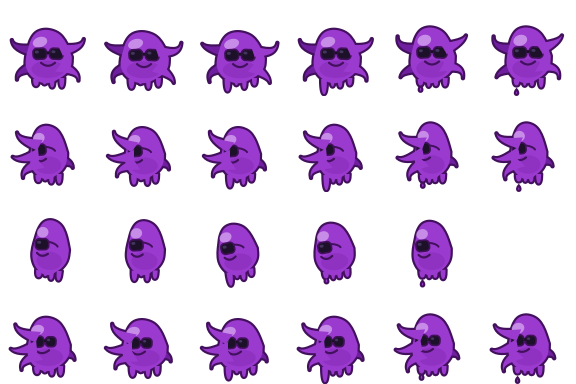
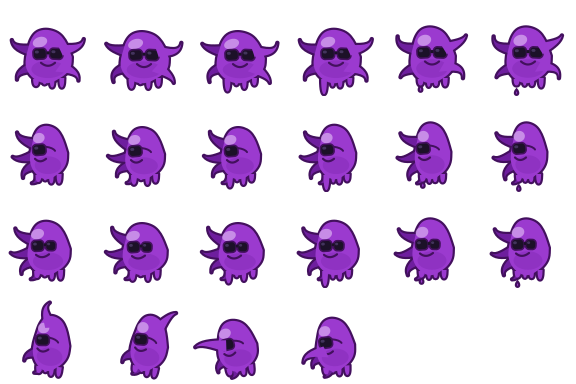
feat(ui): tschobbo wirft klumpen die bei match kleben
Step 2/3 von Tschobbo v2. Neue Assets (sheet ersetzt, blobs neu). Wurf-Queue
mit ~120ms Stagger, Parabel-Flug, landet als stick auf der Quadratposition.
Fallen-Fall kommt in Step 3. Release-Timing-Bug (siehe docs/errors.md) gefixt.

diff --git a/ui/tschobbo.js b/ui/tschobbo.js
@@ -11,8 +11,15 @@ const SCALE = DISPLAY / FRAME;
 const SHEET_W = 576 * SCALE;
 const SHEET_H = 384 * SCALE;
 
-const ROWS = { front: 0, side: 1, push: 2, quarter: 3 };
-const FRAME_COUNTS = { front: 6, side: 6, push: 5, quarter: 6 };
+const ROWS = { front: 0, side: 1, quarter: 2, throw: 3 };
+const FRAME_COUNTS = { front: 6, side: 6, quarter: 6, throw: 4 };
+
+// Klumpen-Sheet (tschobbo-blobs.png): eigenes, kleineres Raster, nativ ohne
+// Skalierung (Anzeigegroesse = Asset-Groesse, siehe Auftrag).
+const BLOB_FRAME = 32;
+const BLOB_SHEET_W = 128, BLOB_SHEET_H = 96;
+const BLOB_ROWS = { fly: 0, stick: 1, glob: 2 };
+const BLOB_FRAME_COUNTS = { fly: 4, stick: 1, glob: 4 };
 
 const IDLE_FRAME_MS = 1000 / 8;
 const DRIFT_WAIT_MIN = 6000, DRIFT_WAIT_MAX = 14000;
@@ -25,6 +32,12 @@ const MARGIN = 32;
 const PARK_TRAVEL_MS = 600; // nicht im Auftrag beziffert — an Entrance/Drift angelehnt
 const HOP_MS = 160;
 const SCRAPE_SILENCE_MS = 5000;
+
+const THROW_FRAME_MS = 1000 / 12; // Auftrag: "Throw-Ticker: 12 fps"
+const THROW_STAGGER_MS = 120; // Auftrag: Wurf-Frequenz bei mehreren Jobs
+const FLY_MS = 450; // nicht im Auftrag beziffert — zuegiger Wurf, an Drift/Park angelehnt
+const FLY_SPINS = 2; // wie oft der Klumpen waehrend des Flugs durch seine 4 Frames rotiert, nicht beziffert
+const ARC = 80; // Auftrag: "Wurfhöhe (ARC): ~80 px"
 
 const STORAGE_KEY = 'tschobbo.enabled';
 
@@ -49,6 +62,16 @@ function spawnSpot() {
 
 function setFrame(body, view, frame) {
   body.style.backgroundPosition = `-${frame * DISPLAY}px -${ROWS[view] * DISPLAY}px`;
+}
+
+function setBlobFrame(el, row, frame) {
+  el.style.backgroundPosition = `-${frame * BLOB_FRAME}px -${BLOB_ROWS[row] * BLOB_FRAME}px`;
+}
+
+function makeBlobEl() {
+  const el = document.createElement('div');
+  el.style.cssText = `position:fixed; width:${BLOB_FRAME}px; height:${BLOB_FRAME}px; background-image:url(/tschobbo-blobs.png); background-repeat:no-repeat; background-size:${BLOB_SHEET_W}px ${BLOB_SHEET_H}px; pointer-events:none; z-index:39;`;
+  return el;
 }
 
 function buildDom() {
@@ -91,6 +114,7 @@ export function initTschobbo() {
   let mode = 'idle';
   let busy = false;
   let silenceTimer = null;
+  let throwQueue = [];
 
   function clearTimers() {
     timers.forEach(clearTimeout);
@@ -170,6 +194,77 @@ export function initTschobbo() {
     }
   }
 
+  // Ein Klumpen fliegt auf einer Parabel (Formel, keine Physik-Engine) von der
+  // Wurfhand zum Ziel und rotiert dabei durch seine 4 fly-Frames. Bleibt am Ziel
+  // hängen (stick) — der Fallen-Fall kommt erst in Step 3.
+  function spawnFly(origin, target) {
+    const el = makeBlobEl();
+    document.body.appendChild(el);
+    const t0 = performance.now();
+    function step(now) {
+      const t = Math.min(1, (now - t0) / FLY_MS);
+      const x = origin.x + (target.x - origin.x) * t;
+      const y = origin.y + (target.y - origin.y) * t - ARC * Math.sin(Math.PI * t);
+      el.style.left = `${x}px`;
+      el.style.top = `${y}px`;
+      const frame = Math.floor(t * BLOB_FRAME_COUNTS.fly * FLY_SPINS) % BLOB_FRAME_COUNTS.fly;
+      setBlobFrame(el, 'fly', frame);
+      if (t < 1) requestAnimationFrame(step);
+      else {
+        setBlobFrame(el, 'stick', 0);
+        el.style.left = `${target.x}px`;
+        el.style.top = `${target.y}px`;
+      }
+    }
+    requestAnimationFrame(step);
+  }
+
+  // Wurf-Animation: Frame 0 ausholen, 1 hochziehen, 2 = Release, 3 nachschwingen
+  // (siehe Auftrag). Keine Arme mehr — Wurfhand ist eine ungefähre Position
+  // relativ zum Körper, nicht im Auftrag exakt beziffert.
+  //
+  // Release hängt an einem eigenen Timeout statt am frameTimer-Intervall: bei
+  // ~120ms Wurf-Abstand (THROW_STAGGER_MS) überholt der nächste Wurf oft noch
+  // vor Frame 2 (~166ms) und würde das Intervall kappen — der Klumpen des
+  // vorigen Wurfs käme nie los. Das Intervall bleibt rein kosmetisch fürs Arm-Flackern.
+  function throwOne(targetEl) {
+    const rect = targetEl.getBoundingClientRect();
+    const target = { x: rect.left, y: rect.top };
+    const origin = { x: posX + DISPLAY * 0.5, y: posY + DISPLAY * 0.4 };
+
+    if (frameTimer) clearInterval(frameTimer);
+    let i = 0;
+    setFrame(body, 'throw', 0);
+    frameTimer = setInterval(() => {
+      i++;
+      if (i >= FRAME_COUNTS.throw) {
+        clearInterval(frameTimer); frameTimer = null;
+        startFrameLoop('side');
+        return;
+      }
+      setFrame(body, 'throw', i);
+    }, THROW_FRAME_MS);
+
+    timers.push(setTimeout(() => spawnFly(origin, target), 2 * THROW_FRAME_MS));
+  }
+
+  // Burst-Regel (anders als v1): kein Ignorieren mehr — jeder Job aus jedem
+  // Event wird gesehen, mit ~120ms Abstand nacheinander geworfen (Auftrag).
+  // Während der Anfahrt (busy) wartet die Queue, statt schon zu werfen.
+  function queueThrows(elements) {
+    const wasEmpty = throwQueue.length === 0;
+    throwQueue.push(...elements);
+    if (wasEmpty) drainThrowQueue();
+  }
+
+  function drainThrowQueue() {
+    if (throwQueue.length === 0) return;
+    if (busy) { timers.push(setTimeout(drainThrowQueue, THROW_STAGGER_MS)); return; }
+    const el = throwQueue.shift();
+    throwOne(el);
+    timers.push(setTimeout(drainThrowQueue, THROW_STAGGER_MS));
+  }
+
   // Seele-Beat 3: Freuden-Hüpfer bei Scrape-Ende, danach zurück zu 'front' über
   // dieselbe Zwischenstufe wie beim Scrape-Start (TURN_STEP_MIN/MAX), dann
   // zurück in den Idle-Zyklus.
@@ -198,19 +293,27 @@ export function initTschobbo() {
     silenceTimer = setTimeout(endScrape, SCRAPE_SILENCE_MS);
   }
 
-  // v2 wirft noch keine Klumpen (Step 2) — reagiert nur auf das erste Event
-  // (Anfahrt an den Rand) und hält den Stille-Timer am Laufen, damit Tschobbo
-  // nach Scrape-Ende wieder in den Idle-Zyklus zurückfindet.
+  // Pro Event: Stille-Timer zurücksetzen, beim allerersten zusätzlich anfahren.
+  // Die Quadrate der zuletzt angehängten Zeile (React braucht einen Frame zum
+  // Rendern, daher rAF — gleiches Muster wie das alte doPush) sind die Wurfziele,
+  // auch für das erste Event ("wir wollen alle Jobs sehen", Auftrag-Burst-Regel).
   function onGridUnit() {
     if (!enabledState) return;
     if (mode === 'idle') {
       clearTimers();
       mode = 'scrape';
+      throwQueue = [];
       resetSilenceTimer();
       parkForScrape();
-      return;
+    } else {
+      resetSilenceTimer();
     }
-    resetSilenceTimer();
+    requestAnimationFrame(() => {
+      const rows = document.querySelectorAll('.loadgrid__row');
+      const row = rows[rows.length - 1];
+      if (!row) return;
+      queueThrows(Array.from(row.querySelectorAll('.loadgrid__sq')));
+    });
   }
 
   window.addEventListener('tschobbo:unit', onGridUnit);

diff --git a/scripts/ui-server.ts b/scripts/ui-server.ts
@@ -101,6 +101,7 @@ let filterRowCounters = { matched: 0, offstack: 0, brutal: 0 };
 // kein Verzeichnis-Traversal möglich.
 const TSCHOBBO_ASSETS = new Map<string, { path: string; type: string }>([
   ['/tschobbo-sheet.png', { path: join(import.meta.dirname, '..', 'ui', 'tschobbo-sheet.png'), type: 'image/png' }],
+  ['/tschobbo-blobs.png', { path: join(import.meta.dirname, '..', 'ui', 'tschobbo-blobs.png'), type: 'image/png' }],
   ['/tschobbo.js', { path: join(import.meta.dirname, '..', 'ui', 'tschobbo.js'), type: 'text/javascript; charset=utf-8' }],
 ]);
 

diff --git a/docs/build-log.md b/docs/build-log.md
@@ -1,3 +1,9 @@
+## 2026-08-06 — feat(ui): tschobbo wirft klumpen die bei match kleben
+
+**Was:** Step 2/3 von "Tschobbo v2". Neue Assets aus dem Zip übernommen (`ui/tschobbo-sheet.png` ersetzt — Zeilen jetzt front/side/quarter/throw statt front/side/push/quarter —, neu `ui/tschobbo-blobs.png`, 128×96, 4×fly/1×stick/4×glob), beide über `TSCHOBBO_ASSETS` in `scripts/ui-server.ts` ausgeliefert. `tschobbo.js`: `ROWS`/`FRAME_COUNTS` an die neue Zeilenreihenfolge angepasst; `onGridUnit()` sammelt pro Event die Quadrate der zuletzt angehängten `.loadgrid__row` (auch beim allerersten Event — Auftrag will "alle Jobs sehen", nicht nur ab dem zweiten wie v1) und reiht sie in `throwQueue`; `drainThrowQueue()` wartet während der Anfahrt (`busy`) und wirft danach im ~120ms-Abstand (`THROW_STAGGER_MS`, Auftragswert). `throwOne()` spielt die 4 throw-Frames (12fps, Auftragswert), `spawnFly()` fliegt den Klumpen parabelförmig (Formel aus dem Auftrag, `ARC=80`) zur Zielposition und bleibt dort als `stick`-Frame hängen — der Fallen-Fall (Auftrag: "Erst nur der Kleben-Fall") kommt in Step 3. Per Playwright gegen eine simulierte `.loadgrid__row` (drei Quadrate) verifiziert, echter Scraper lief nicht — zwei Events (6 Würfe insgesamt) landeten alle sechs exakt auf den drei Quadrat-Positionen.
+**Fehler unterwegs:** Release hing zuerst am selben `frameTimer`-Intervall wie das Arm-Frame-Stepping; bei 120ms Wurf-Abstand kappte der nächste Wurf das Intervall des vorigen oft vor Frame 2 (Release bei ~166ms) — nur der letzte Wurf einer Serie kam je an (in der ersten Testrunde: 1 von 6 Klumpen). Fix: Release an einen eigenen, vom Intervall unabhängigen `setTimeout` gehängt (`docs/errors.md`).
+**Nicht gebaut:** Kein v1-Fallback für unerkennbares Gate-Ergebnis — Regel 1 war real erkennbar (`state: 'excluded'` in `scripts/ui-server.ts`), Fallback-Pfad daher nicht gebaut. Kein Zappeln an der Zielposition (Regel 2) — Gate-Ergebnis steht beim Event schon fest, Klumpen fliegt direkt zum Ziel.
+
 ## 2026-08-06 — refactor(ui): tschobbo arm-schub entfernen, scrape-quadrate ausblenden
 
 **Was:** Step 1/3 von "Tschobbo v2 — Schleimklumpen statt Kacheln" (`~/Schreibtisch/TschoBBoUseMe.zip`, CC-Auftrag). `ui/tschobbo-arms.js` gelöscht, aus der `TSCHOBBO_ASSETS`-Whitelist in `scripts/ui-server.ts` raus. `tschobbo.js`: SVG-Element (trug nur die Arme), `playBodyPushFrames()`, `doPush()` und alle `PUSH_*`/`ROW_FOLLOW_MS`/`SLIDE_*`-Konstanten entfernt; `onGridUnit()` reagiert nur noch auf das erste Event einer Session (Anfahrt an den Rand + Stille-Timer), spätere Events lösen noch nichts aus (Step 2). `ui/app.tsx`: `LoadGrid`/`LoadGridPanel` bekommen ein `ghost`-Prop (nur beim Scrape-Aufruf gesetzt) — Quadrate bleiben im Layout (Tschobbo braucht ihre Positionen als künftige Wurfziele), werden aber per `.loadgrid__sq--ghost { opacity:0 !important; pointer-events:none; }` unsichtbar/nicht-klickbar. `!important` nötig, weil `loadgrid-pop` selbst `opacity` animiert. Filter/Anschreiben unberührt (kein `ghost`-Prop gesetzt). Per `tsc --noEmit` verifiziert, Idle/Toggle/Reduced-Motion-Verhalten unverändert.

diff --git a/docs/errors.md b/docs/errors.md
@@ -1,0 +1,5 @@
+## 2026-08-06 — Klumpenwurf: nur der letzte Wurf einer Serie kommt an
+
+**Symptom:** Bei mehreren Jobs in einem GridUnitEvent (6 Würfe in der Testrunde) landete nur ein einziger Klumpen als `stick` — alle anderen verschwanden spurlos, ohne Fehler in der Konsole.
+**Ursache:** `throwOne()` löste den Blob-Release (`spawnFly`) aus dem Callback des `frameTimer`-`setInterval` heraus, bei Frame-Index 2 (~166ms nach Wurfstart). `drainThrowQueue()` startet aber alle `THROW_STAGGER_MS` (120ms) den nächsten Wurf, und jeder neue Wurf räumt zuerst das laufende `frameTimer`-Intervall weg (`clearInterval`), um sein eigenes Arm-Frame-Stepping zu starten. Bei 120ms Abstand < 166ms bis Frame 2 wurde das Intervall des vorigen Wurfs fast immer schon gekappt, bevor dessen Release-Frame je erreicht wurde — der Klumpen löste sich nie.
+**Fix:** Release an einen eigenen `setTimeout(() => spawnFly(...), 2 * THROW_FRAME_MS)` gehängt, unabhängig vom `frameTimer`-Intervall. Das Intervall bleibt rein kosmetisch fürs Arm-Frame-Flackern und darf beliebig unterbrochen werden, ohne den Wurf selbst zu beeinflussen.
